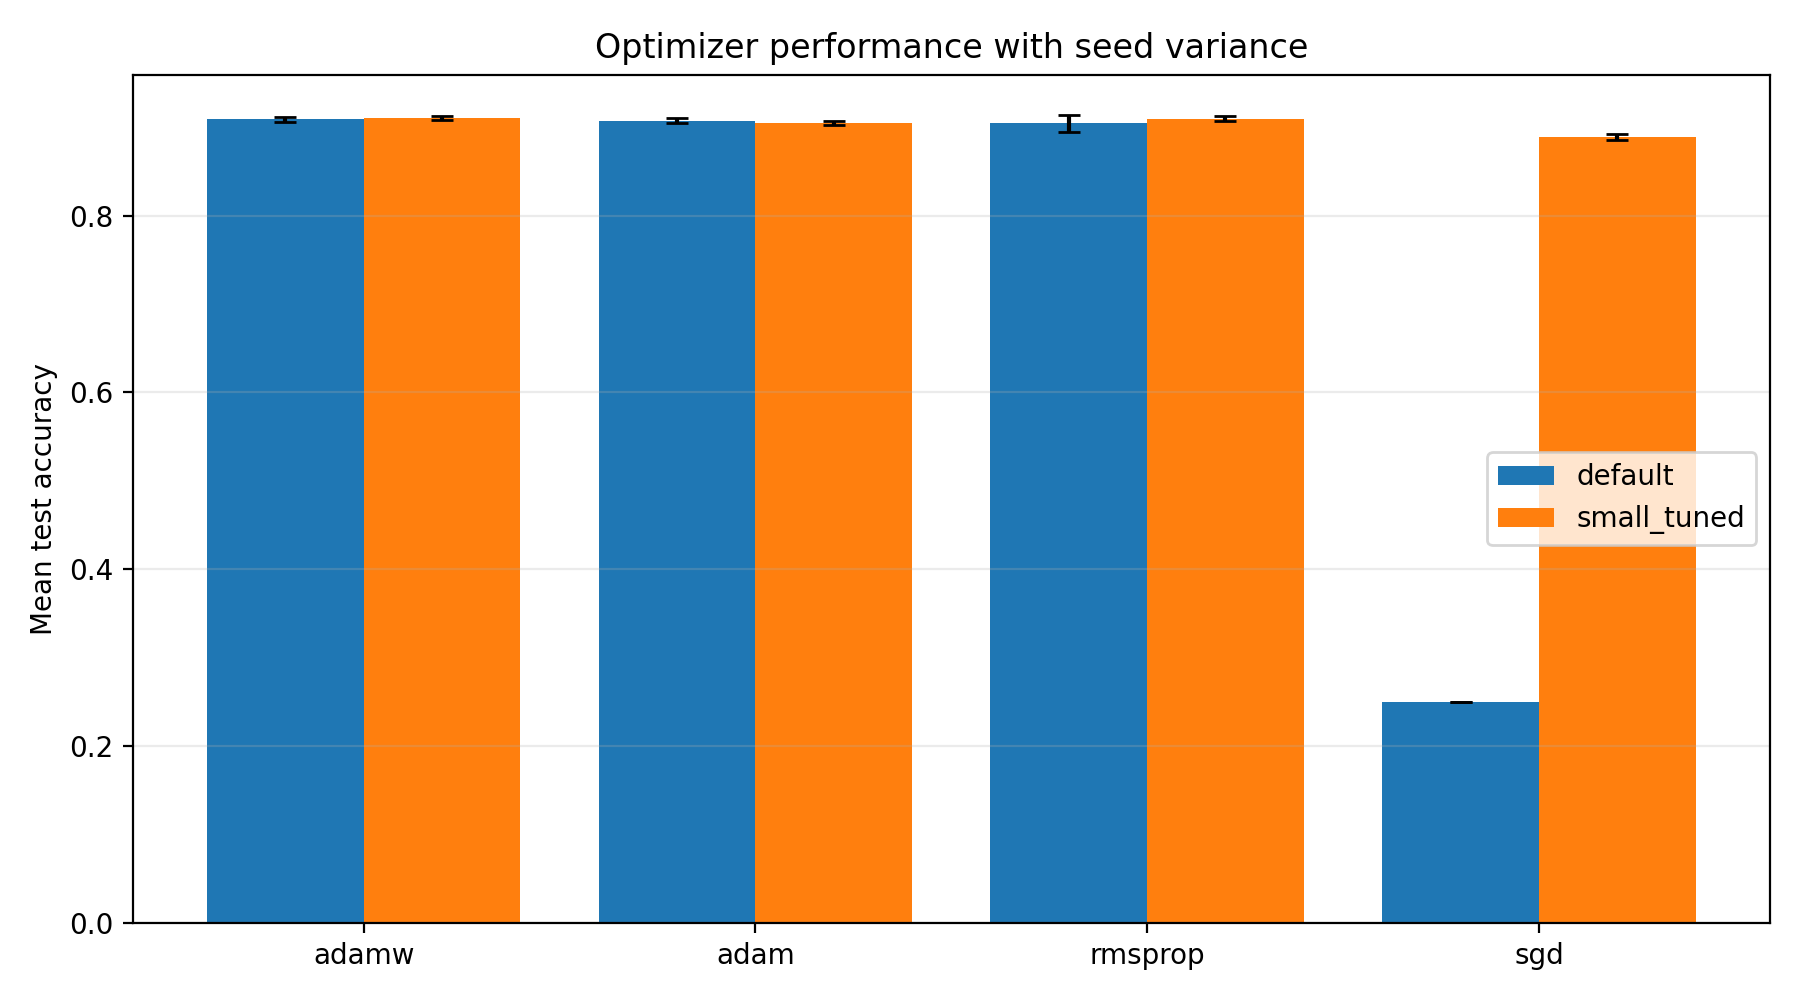
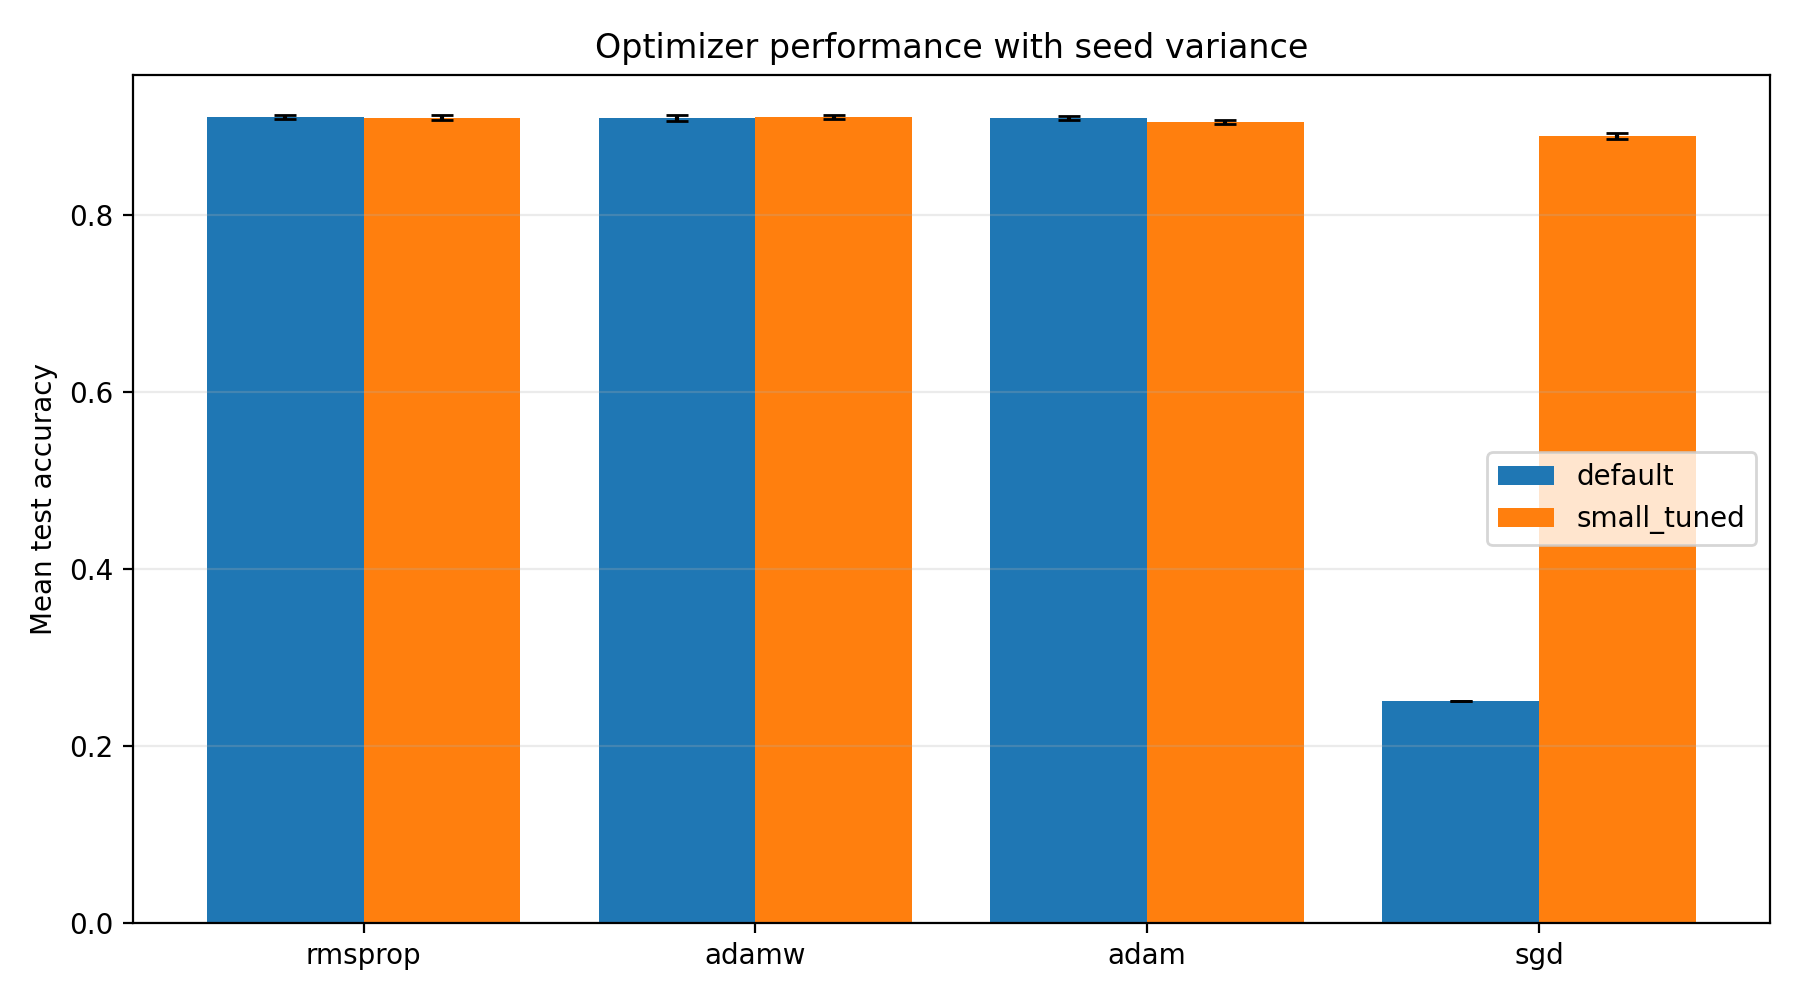
Fix fallback path consistency + update README with correct numbers
Regenerate all four aggregate JSON files (default_summaries.json,
small_tuned_rerun_summaries.json for both datasets) via skip-mode
re-run of the baseline and rerun scripts. All 80 entries now contain
best_epoch_test_accuracy, so the fallback path in collect_results.py
produces the same metric as the primary path.

Update README Key Results table with correct authoritative numbers:
- IMDB default RMSProp: 86.37% (was 86.1%)
- AG News default ranking: RMSProp 91.05% > AdamW 90.95% > Adam 90.92%
  (was incorrectly listed as AdamW first)
- Variance eta-squared: IMDB optimizer=0.554/budget=0.112/seed=0.001,
  AG News optimizer=0.458/budget=0.134/seed≈0.000
  (old values 0.73/0.05/0.004 were computed from final_test_accuracy
  before the metric fix)

diff --git a/README.md b/README.md
@@ -26,25 +26,28 @@ Dropout is deliberately held fixed across all search spaces so that only optimiz
 
 ## Key Results
 
+All accuracy values are `best_epoch_test_accuracy` — test accuracy at the epoch with the best validation accuracy. Mean over 5 seeds.
+
 ### IMDB (max\_len=512, ~40 s/run on RTX 4060)
 
 | Budget | Adam | AdamW | RMSProp | SGD |
 |--------|------|-------|---------|-----|
-| Default | 87.7% ② | **87.7% ①** | 86.1% ③ | 50.0% ④ |
-| Tuned | **87.8% ①** | 87.3% ② | 86.6% ③ | 82.5% ④ |
+| Default | 87.65% ② | **87.66% ①** | 86.37% ③ | 50.00% ④ |
+| Tuned   | **87.84% ①** | 87.35% ② | 86.61% ③ | 82.54% ④ |
 
 ### AG News (max\_len=128, ~65 s/run on RTX 4060)
 
 | Budget | Adam | AdamW | RMSProp | SGD |
 |--------|------|-------|---------|-----|
-| Default | 90.8% ② | **90.9% ①** | 90.5% ③ | 25.0% ④ |
-| Tuned | 90.5% ③ | **91.0% ①** | 90.9% ② | 88.9% ④ |
+| Default | 90.92% ③ | 90.95% ② | **91.05% ①** | 25.00% ④ |
+| Tuned   | 90.51% ③ | **91.03% ①** | 90.96% ② | 88.93% ④ |
 
 **Findings:**
-- SGD with its NLP-standard default (lr=0.1) collapses to chance on both tasks. Small-budget tuning rescues it to competitive accuracy, but with noticeably higher seed variance than Adam/AdamW.
-- Adam and AdamW are nearly indistinguishable at default settings. After tuning, Adam edges ahead on IMDB while AdamW retains the top rank on AG News — the ranking is dataset-dependent.
-- On IMDB, one SGD tuned run shows a sharp drop from epoch 4 (81.2%) to epoch 5 (62.5%), illustrating why reporting at the best-val-epoch checkpoint matters.
-- Variance analysis: optimizer choice (η²≈0.73) dominates over tuning budget (η²≈0.05) and seed (η²≈0.004), largely driven by SGD.
+- SGD with its NLP-standard default (lr=0.1) collapses to chance on both tasks. Small-budget tuning rescues it substantially, but with noticeably higher seed variance than Adam/AdamW.
+- On IMDB, Adam and AdamW are nearly tied at default. After tuning, Adam edges ahead while AdamW drops — the ranking reverses.
+- On AG News, RMSProp ranks first at default settings but drops to second after tuning; AdamW takes first. Rankings are dataset-dependent.
+- One SGD tuned run (IMDB seed 103) drops from 81.2% at epoch 4 to 62.5% at epoch 5, illustrating why best-val-epoch accuracy matters over final-epoch.
+- Variance analysis (eta-squared): IMDB — optimizer 0.554, budget 0.112, seed 0.001. AG News — optimizer 0.458, budget 0.134, seed ≈0.000. Optimizer choice dominates; seed variation is negligible for non-SGD optimizers.
 
 ## Repository Layout
 
